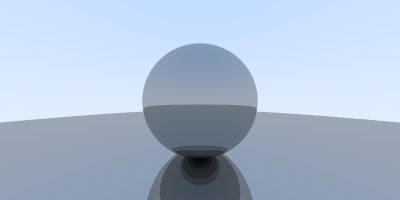
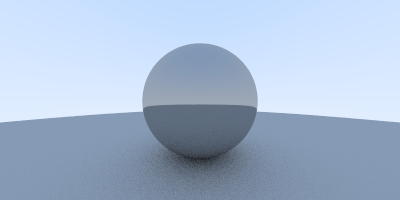
Use two seperate materials

Changed region(s): [[0.33, 0.69, 0.66, 1.0]]

diff --git a/src/main.rs b/src/main.rs
@@ -85,8 +85,12 @@ mod material_utils {
 
 use material_utils::LambertTable;
 
+const ANTI_ALIASING_SAMPLE: i32 = 64;
+
 const IMG_WIDTH: usize = 400;
 const IMG_HEIGHT: usize = 200;
+const T_MAX: f32 = 10000.0;
+const T_MIN: f32 = 0.001;
 
 fn write_image(filename: &String, data: &[u8], width: u32, height: u32) -> io::Result<()> {
     let mut file = File::create(filename).unwrap();
@@ -160,18 +164,6 @@ fn gradient_color(r: Ray) -> Vector3<f32> {
     return (1.0-t) * Vector3::new(1.0, 1.0, 1.0) + t * Vector3::new(0.5, 0.7, 1.0);
 }
 
-// allocates a new variable to the stack and prints its address.
-macro_rules! print_next_stack_ptr {
-    () => (
-        let dummy: i32 = 0x0;
-        println!("next_stack_ptr: {:p}", &dummy);
-    )
-}
-
-
-const T_MAX: f32 = 10000.0;
-const T_MIN: f32 = 0.001;
-
 fn trace(r: Ray, depth: i32) -> Vector3<f32> {
     //print_next_stack_ptr!();
 
@@ -181,8 +173,8 @@ fn trace(r: Ray, depth: i32) -> Vector3<f32> {
 
     let mut materials: Vec<Box<Material>> = Vec::new();
     materials.push(Box::new(
-        //Lambertian::new(),
-        Metal::new(),
+        Lambertian::new(),
+        //Metal::new(),
 
     ));
     materials.push(Box::new(
@@ -344,8 +336,6 @@ impl Visible for Sphere {
         }
     }
 }
-
-const ANTI_ALIASING_SAMPLE: i32 = 64;
 
 fn print_stack_size() {
     let dummy: i32 = 0x0;
